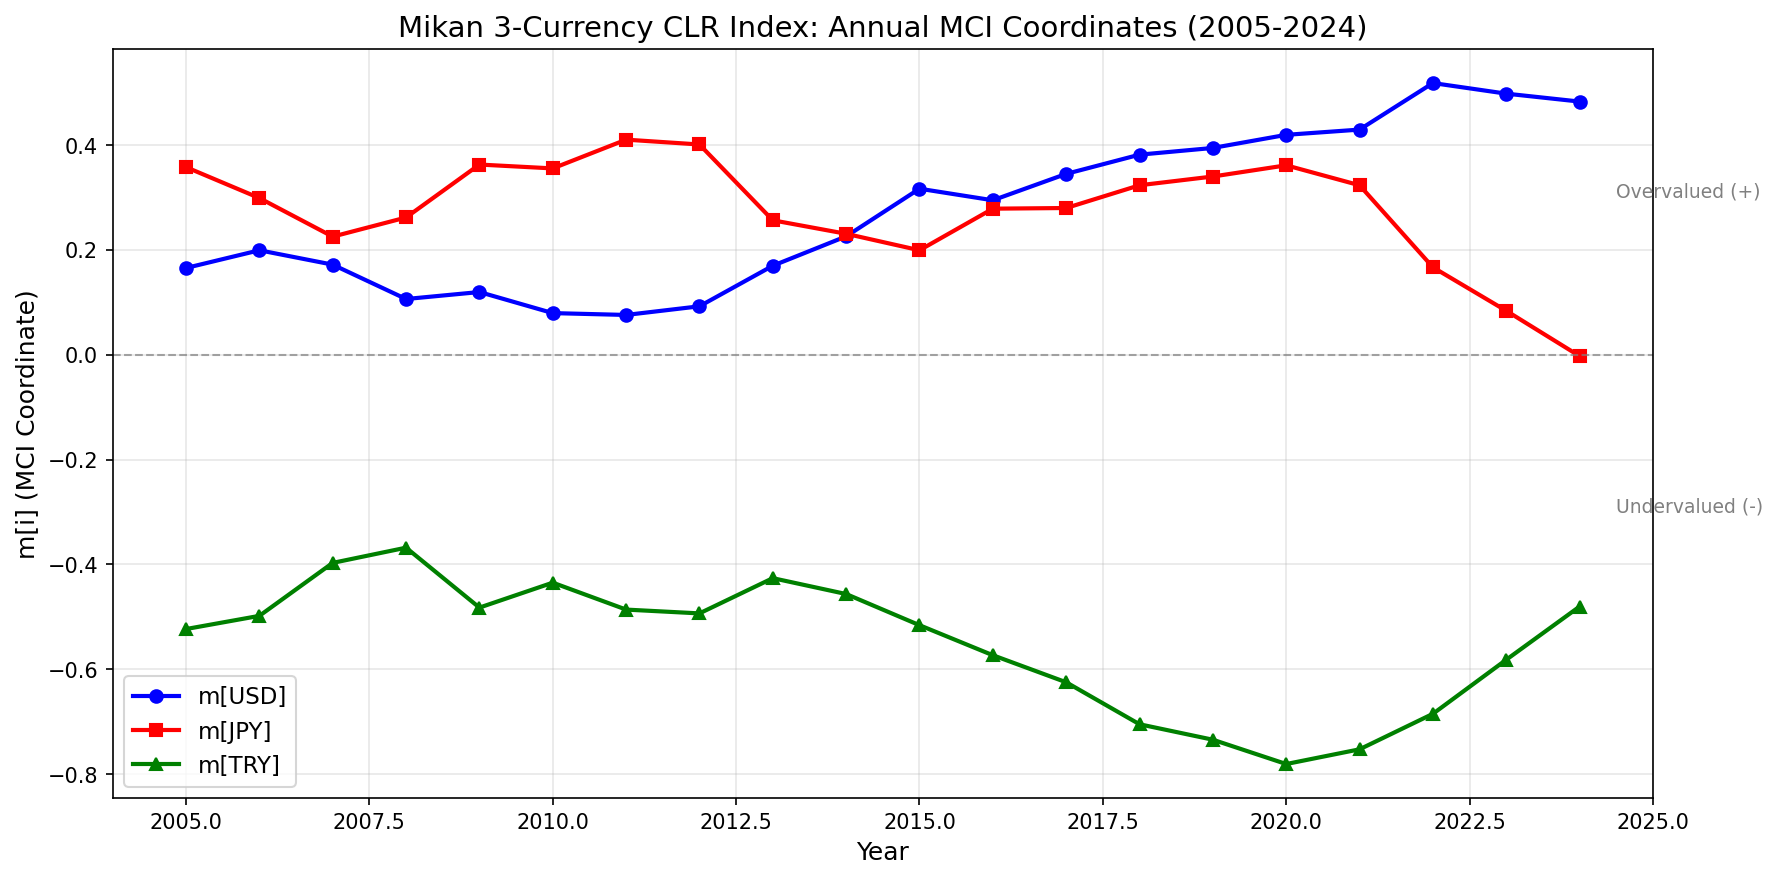
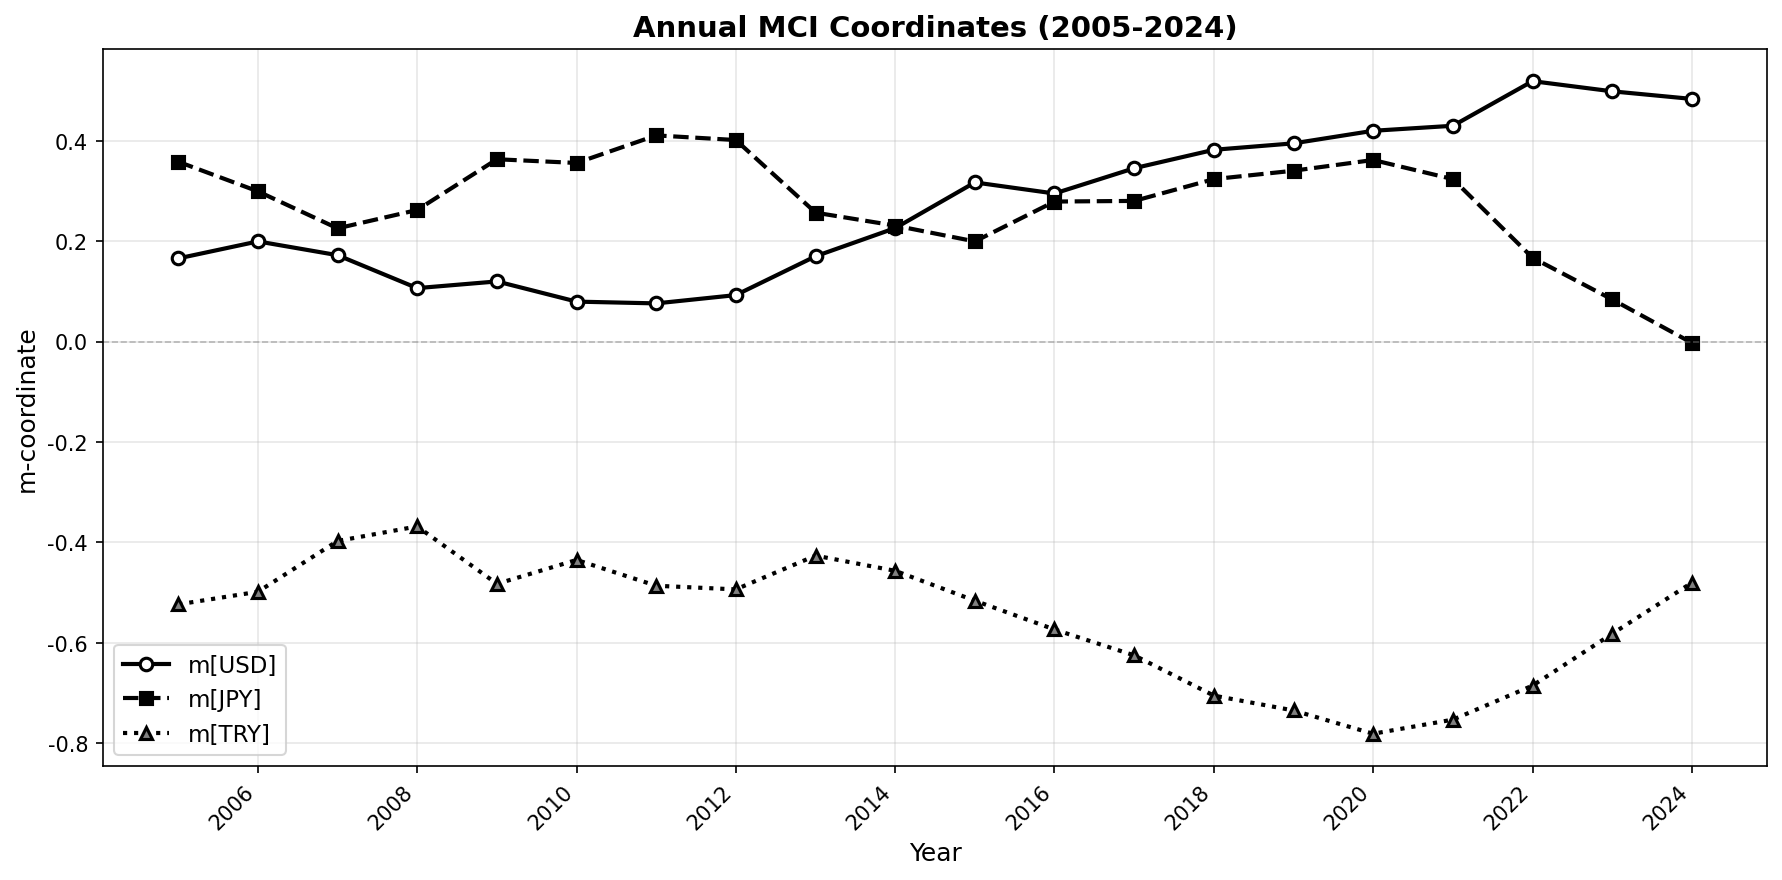
Convert all graphs to monochrome for publication
- Created plot_annual_mci.py for annual MCI graph generation
- Updated plot_monthly_mci.py to generate both monthly graphs in monochrome
- Regenerated all three PNG files with consistent monochrome style:
  - m[USD]: solid line, white circle markers
  - m[JPY]: dashed line, black square markers
  - m[TRY]: dotted line, gray triangle markers
- All graphs now publication-ready for black and white printing

Generated with Claude Code

diff --git a/dataset/plot_monthly_mci.py b/dataset/plot_monthly_mci.py
@@ -1,0 +1,118 @@
+#!/usr/bin/env python3
+"""
+月次MCIグラフ生成スクリプト（CHAPTER8用）
+
+月次データ（2022年m座標修正後）から2つのグラフを生成：
+1. monthly_mci_interpolated_ppp.png - PPP線形補間版
+2. monthly_mci_annual_ppp.png - 年次PPP固定版（比較用）
+"""
+
+import pandas as pd
+import matplotlib.pyplot as plt
+import matplotlib.dates as mdates
+from datetime import datetime
+
+# 日本語フォント設定（必要に応じて変更）
+plt.rcParams['font.sans-serif'] = ['DejaVu Sans']
+plt.rcParams['axes.unicode_minus'] = False
+
+def plot_monthly_mci_interpolated():
+    """PPP線形補間版の月次MCIグラフ（モノクロ版）"""
+
+    # データ読み込み
+    df = pd.read_csv('monthly_mci_complete_2022_2025.csv')
+    df['date'] = pd.to_datetime(df['date'])
+
+    # プロット
+    fig, ax = plt.subplots(figsize=(12, 6))
+
+    # モノクロで判読可能なスタイル
+    ax.plot(df['date'], df['m_USD'], 'o', label='m[USD]', linewidth=2, markersize=5,
+            color='black', linestyle='-', markerfacecolor='white', markeredgewidth=1.5, markeredgecolor='black')
+    ax.plot(df['date'], df['m_JPY'], 's', label='m[JPY]', linewidth=2, markersize=5,
+            color='black', linestyle='--', markerfacecolor='black', markeredgewidth=1.5)
+    ax.plot(df['date'], df['m_TRY'], '^', label='m[TRY]', linewidth=2, markersize=5,
+            color='black', linestyle=':', markerfacecolor='gray', markeredgewidth=1.5, markeredgecolor='black')
+
+    # ゼロライン
+    ax.axhline(y=0, color='gray', linestyle='--', linewidth=0.8, alpha=0.5)
+
+    # 軸設定
+    ax.set_xlabel('Date', fontsize=12)
+    ax.set_ylabel('m-coordinate', fontsize=12)
+    ax.set_title('Monthly MCI Coordinates (PPP Interpolated)', fontsize=14, fontweight='bold')
+    ax.legend(fontsize=11, loc='best')
+    ax.grid(True, alpha=0.3)
+
+    # 日付フォーマット
+    ax.xaxis.set_major_formatter(mdates.DateFormatter('%Y-%m'))
+    ax.xaxis.set_major_locator(mdates.MonthLocator(interval=3))
+    plt.xticks(rotation=45, ha='right')
+
+    plt.tight_layout()
+    plt.savefig('../docs/monthly_mci_interpolated_ppp.png', dpi=150, bbox_inches='tight')
+    plt.close()
+
+    print("Generated: docs/monthly_mci_interpolated_ppp.png")
+
+def plot_monthly_mci_annual_ppp():
+    """年次PPP固定版の月次MCIグラフ（比較用・モノクロ版）"""
+
+    # データ読み込み
+    df = pd.read_csv('monthly_mci_fixed_ppp_2022_2025.csv')
+    df['date'] = pd.to_datetime(df['date'])
+
+    # プロット
+    fig, ax = plt.subplots(figsize=(12, 6))
+
+    # モノクロで判読可能なスタイル
+    ax.plot(df['date'], df['m_USD'], 'o', label='m[USD]', linewidth=2, markersize=5,
+            color='black', linestyle='-', markerfacecolor='white', markeredgewidth=1.5, markeredgecolor='black')
+    ax.plot(df['date'], df['m_JPY'], 's', label='m[JPY]', linewidth=2, markersize=5,
+            color='black', linestyle='--', markerfacecolor='black', markeredgewidth=1.5)
+    ax.plot(df['date'], df['m_TRY'], '^', label='m[TRY]', linewidth=2, markersize=5,
+            color='black', linestyle=':', markerfacecolor='gray', markeredgewidth=1.5, markeredgecolor='black')
+
+    # ゼロライン
+    ax.axhline(y=0, color='gray', linestyle='--', linewidth=0.8, alpha=0.5)
+
+    # 年境界（PPP更新タイミング）を示す縦線（モノクロ版）
+    year_boundaries = ['2023-01-01', '2024-01-01', '2025-01-01']
+    for boundary in year_boundaries:
+        ax.axvline(x=pd.to_datetime(boundary), color='gray', linestyle='-.',
+                   linewidth=1.5, alpha=0.6, label='Year boundary' if boundary == year_boundaries[0] else '')
+
+    # 軸設定
+    ax.set_xlabel('Date', fontsize=12)
+    ax.set_ylabel('m-coordinate', fontsize=12)
+    ax.set_title('Monthly MCI Coordinates (Annual PPP Fixed)', fontsize=14, fontweight='bold')
+    ax.legend(fontsize=11, loc='best')
+    ax.grid(True, alpha=0.3)
+
+    # 日付フォーマット
+    ax.xaxis.set_major_formatter(mdates.DateFormatter('%Y-%m'))
+    ax.xaxis.set_major_locator(mdates.MonthLocator(interval=3))
+    plt.xticks(rotation=45, ha='right')
+
+    plt.tight_layout()
+    plt.savefig('../docs/monthly_mci_annual_ppp.png', dpi=150, bbox_inches='tight')
+    plt.close()
+
+    print("Generated: docs/monthly_mci_annual_ppp.png")
+
+if __name__ == '__main__':
+    print("="*60)
+    print("月次MCIグラフ生成（CHAPTER8用）")
+    print("="*60)
+
+    print("\n[1] PPP線形補間版を生成中...")
+    plot_monthly_mci_interpolated()
+
+    print("\n[2] 年次PPP固定版を生成中...")
+    plot_monthly_mci_annual_ppp()
+
+    print("\n" + "="*60)
+    print("All graphs generated successfully")
+    print("  - docs/monthly_mci_interpolated_ppp.png")
+    print("  - docs/monthly_mci_annual_ppp.png")
+    print("="*60)

diff --git a/dataset/plot_annual_mci.py b/dataset/plot_annual_mci.py
@@ -1,0 +1,56 @@
+#!/usr/bin/env python3
+"""
+年次MCIグラフ生成（モノクロ版）
+
+annual_mci_2005_2024.csvから年次MCI座標のグラフを生成
+論文の図4.1および図8.0で使用
+"""
+
+import pandas as pd
+import matplotlib.pyplot as plt
+import matplotlib.dates as mdates
+
+# フォント設定
+plt.rcParams['font.sans-serif'] = ['DejaVu Sans']
+plt.rcParams['axes.unicode_minus'] = False
+
+# データ読み込み
+df = pd.read_csv('annual_mci_2005_2024.csv')
+df['year'] = pd.to_datetime(df['year'].astype(str) + '-01-01')
+
+# プロット
+fig, ax = plt.subplots(figsize=(12, 6))
+
+# モノクロで判読可能なスタイル
+ax.plot(df['year'], df['m_USD'], 'o', label='m[USD]', linewidth=2, markersize=6,
+        color='black', linestyle='-', markerfacecolor='white', markeredgewidth=1.5, markeredgecolor='black')
+ax.plot(df['year'], df['m_JPY'], 's', label='m[JPY]', linewidth=2, markersize=6,
+        color='black', linestyle='--', markerfacecolor='black', markeredgewidth=1.5)
+ax.plot(df['year'], df['m_TRY'], '^', label='m[TRY]', linewidth=2, markersize=6,
+        color='black', linestyle=':', markerfacecolor='gray', markeredgewidth=1.5, markeredgecolor='black')
+
+# ゼロライン
+ax.axhline(y=0, color='gray', linestyle='--', linewidth=0.8, alpha=0.5)
+
+# 軸設定
+ax.set_xlabel('Year', fontsize=12)
+ax.set_ylabel('m-coordinate', fontsize=12)
+ax.set_title('Annual MCI Coordinates (2005-2024)', fontsize=14, fontweight='bold')
+ax.legend(fontsize=11, loc='best')
+ax.grid(True, alpha=0.3)
+
+# 日付フォーマット
+ax.xaxis.set_major_formatter(mdates.DateFormatter('%Y'))
+ax.xaxis.set_major_locator(mdates.YearLocator(2))
+plt.xticks(rotation=45, ha='right')
+
+plt.tight_layout()
+plt.savefig('../docs/annual_mci_plot.png', dpi=150, bbox_inches='tight')
+plt.close()
+
+print("Generated: docs/annual_mci_plot.png")
+print(f"Data points: {len(df)}")
+print(f"Year range: {df['year'].dt.year.min()} to {df['year'].dt.year.max()}")
+print(f"m[USD] range: {df['m_USD'].min():.3f} to {df['m_USD'].max():.3f}")
+print(f"m[JPY] range: {df['m_JPY'].min():.3f} to {df['m_JPY'].max():.3f}")
+print(f"m[TRY] range: {df['m_TRY'].min():.3f} to {df['m_TRY'].max():.3f}")
